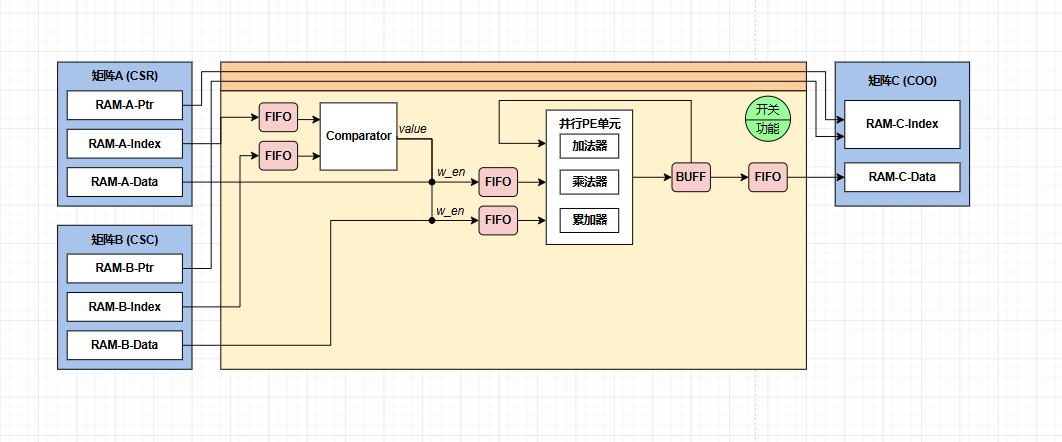
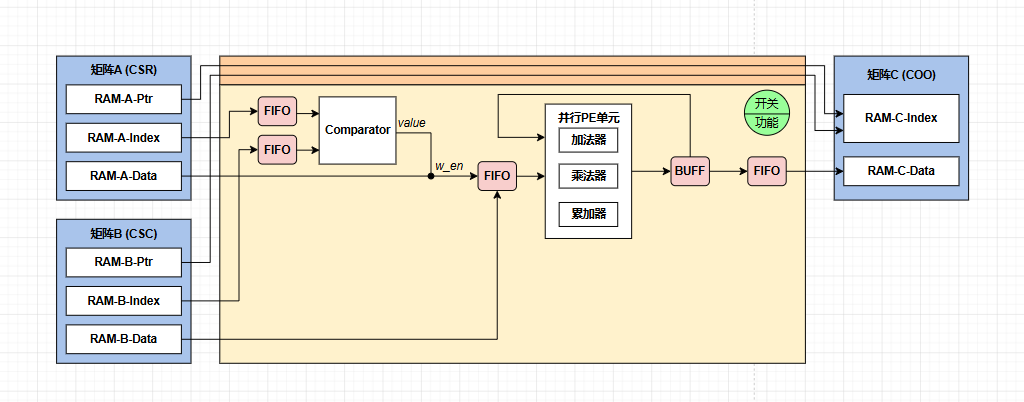
跟新数据流

Changed region(s): [[0.0312, 0.1194, 0.9688, 0.9254]]

diff --git a/RTL_from_TTS_TEMP/TOP/架构.md b/RTL_from_TTS_TEMP/TOP/架构.md
@@ -5,3 +5,23 @@
 ## 2.数据流设计图
 
 > ![矩阵乘法示意图](image_t1.png)
+### 说明（矩阵乘法）：
+循环框架如下：
+for(i=0,i<=A_row_MAX,i++)
+    for(j=0,j<=B_col_MAX,j++)
+
+首先读取矩阵A的第i（A的i行）、i+1个PTR，统计该行是否存在非零元素；读取矩阵B的第j（B的j列）、j+1个PTR，统计该列是否存在非零元素。在两者都不为0时打开主题数据流。然后依次将矩阵A的第i行、矩阵B的第j列索引分别依次送入两个FIFO中，比较器依次从FIFO中取两个数据比对。
+    若A_index > B_index，则关闭FIFO_Index_A读使能，打开FIFO_Index_B的读使能，同时b_nnz_addr递增；
+    若A_index < B_index，则打开FIFO_Index_A读使能，关闭FIFO_Index_B的读使能，同时a_nnz_addr递增；
+    若A_index = B_index，则打开FIFO_Index_A和FIFO_Index_B的读使能，a_nnz_addr和b_nnz_addr递增，同时开启FIFO_Data写使能；
+
+PE单元读取FIFO_Data数据（每个数据包含一对A、B元素），经过乘法/加法/累加，结果存入缓存16bit缓存buff中，待该位置全部累加完成后，将buff读入FIFO_C中，完成一个行列位置的整个流程。
+
+本节使用的FIFO规格如下：
+
+| FIFO | 宽度 | 深度 | 备注 |
+|---|---|---|---|
+| `FIFO_Index_A` | 16bit | 16 | 同步，读2写1 |
+| `FIFO_Index_B` | 16bit | 16 | 同步，读2写1 |
+| `FIFO_Data` | 32bit | 16 | 异步，读1写1 |
+| `FIFO_C` | 16bit | 16 | 同步，读1写1 |